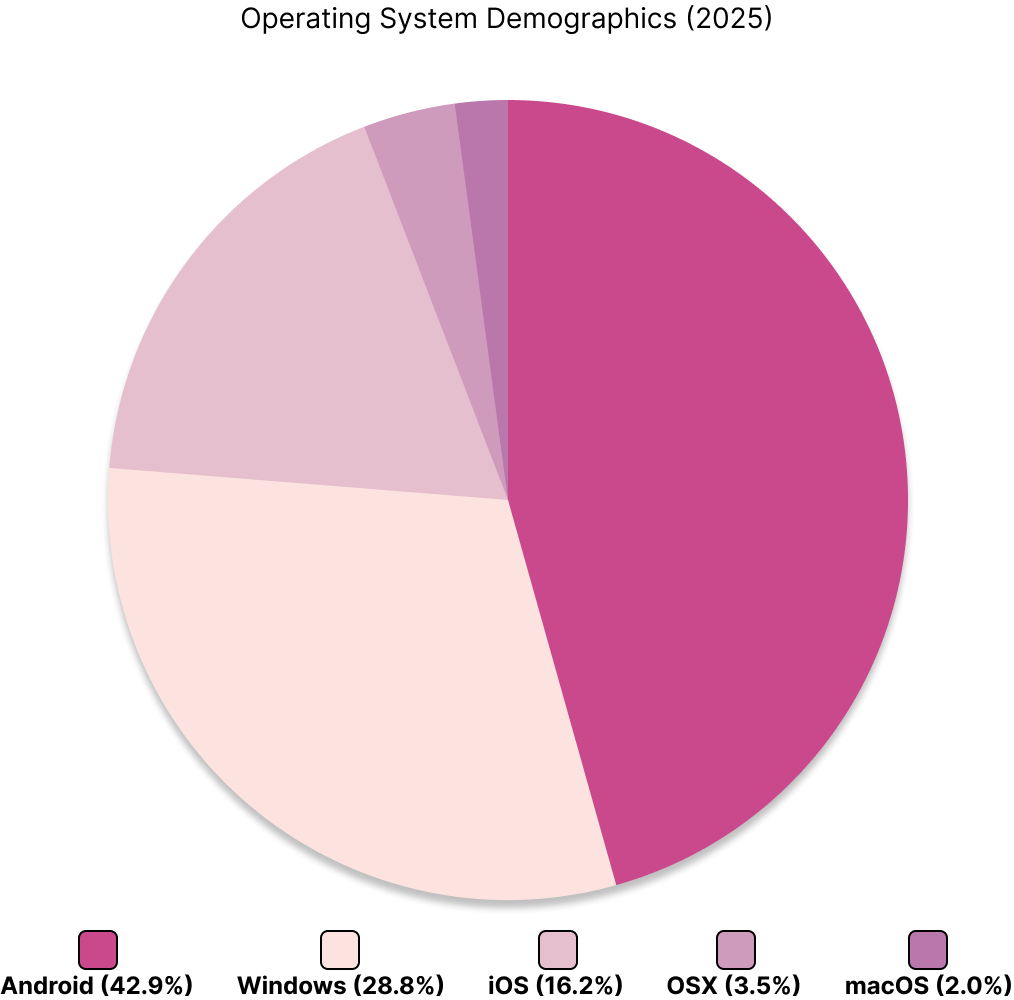
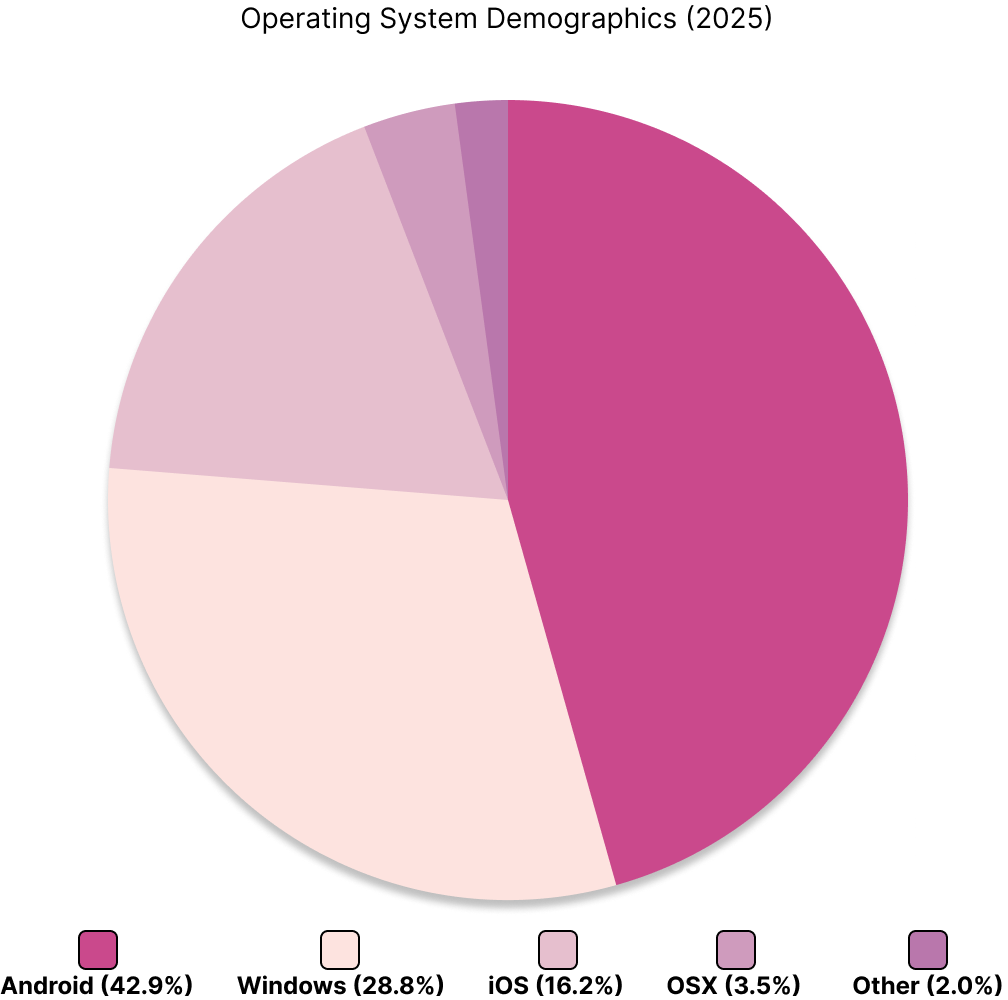
Simplify optimization section, move graphics inline

diff --git a/CreatorTools/webxr-optimization/introduction-to-web-optimization.md b/CreatorTools/webxr-optimization/introduction-to-web-optimization.md
@@ -11,11 +11,21 @@ VIVERSE experiences run in web browsers. This allows 3D experiences to securely 
 
 ### Reach millions of users instantly
 
-An estimated **3 billion people** have access to a 3D-capable web browser.
+An estimated **3 billion people** have access to a 3D-capable web browser and high-speed internet connection:
 
-### Launch on any device with a web browser
+<figure><img src=".gitbook/assets/3D Capable Demographics.png" alt="" width="375"><figcaption><p>Population of 3D Capable Users</p></figcaption></figure>
 
-3D web apps reach phones, desktop computers, laptop computers, and Mixed Reality headsets via the same URL. Chrome alone accounts for ~68% of global browsing.
+### Launch on any device with a 3D-compatible web browser
+
+3D web apps reach phones, desktop computers, laptop computers, and mixed reality (XR) headsets via the same URL. The vast majority of internet browsing happens on 3D-capable browsers (Chrome, Edge, Firefox, and Safari) running on 3D-capable operating systems (Android, iOS, OSX, Windows).
+
+<figure><img src=".gitbook/assets/Browser Demographics.png" alt="" width="375"><figcaption><p>Browser Demographics</p></figcaption></figure>
+
+<figure><img src=".gitbook/assets/OS Demographics.png" alt="" width="375"><figcaption><p>Operating System Demographics</p></figcaption></figure>
+
+An estimated 95% of browsers in use support 3D experiences via the WebGL API:
+
+<figure><img src=".gitbook/assets/WebGL Support.png" alt="" width="375"><figcaption><p>WebGL Support Across Devices</p></figcaption></figure>
 
 ### Secure by default
 
@@ -25,17 +35,9 @@ The [web’s](https://developer.mozilla.org/en-US/docs/Web/Security) application
 
 WebGPU/WebGL 2, WebXR, WebAssembly (WASM), CSS, and JavaScript are standardized by mature standards bodies and implemented across most major web browser engines. There is no store gatekeeping compared to native platforms.
 
-## By the Numbers: 3D Web Availability
-
-<figure><img src=".gitbook/assets/3D Capable Demographics.png" alt="" width="375"><figcaption><p>Population of 3D Capable Users</p></figcaption></figure>
-
-<figure><img src=".gitbook/assets/OS Demographics.png" alt="" width="375"><figcaption><p>Operating System Demographics</p></figcaption></figure>
-
-<figure><img src=".gitbook/assets/Browser Demographics.png" alt="" width="375"><figcaption><p>Browser Demographics</p></figcaption></figure>
-
-<figure><img src=".gitbook/assets/WebGL Support.png" alt="" width="375"><figcaption><p>WebGL Support Across Devices</p></figcaption></figure>
-
 ## Optimizing 3D experiences for the Web vs native platforms
+
+The core principles of game development are the same across web and native, but there are key optimizations to make on the web platform to ensure that users have a great first impression and keep coming back:
 
 ### Load in fast
 
@@ -45,7 +47,7 @@ WebGPU/WebGL 2, WebXR, WebAssembly (WASM), CSS, and JavaScript are standardized 
 - Load in assets as you go - one benefit of the browser is that assets can be continuously fetched over the network. Rather than loading everything in at once, only download it when you need it.
 - Show the user something as soon as you can - users will be visiting your game from a web page, which typically load very quickly. To keep the experience seamless, make sure to render a loading bar while resources are downloading.
 
-### Expect cross-platform use
+### Prepare for cross-platform use
 
 **The same build runs across mobile, desktop, and XR platforms**. Unlike native applications, where a separate build must be created for each platform, only one build is generated for the web. This simplifies deployment, but performance tuning must happen at runtime.
 
@@ -58,19 +60,20 @@ WebGPU/WebGL 2, WebXR, WebAssembly (WASM), CSS, and JavaScript are standardized 
 
 **Developers must tailor their experience towards running in a WebGL context**. The browser adds some CPU overhead compared to native apps to ensure the security of WebGL experiences.
 
-- Understand how draw calls impact performance - the CPU performance of a scene typically scales with the number of draw calls that occur in each frame. A draw call is a command that the engine sends to the GPU telling it to a draw a series of triangles or pixels. This operation happens very quickly on the GPU, but is very slow on the CPU, making it advantageous to batch draw calls together or strip them out entirely.
-- Reuse materials and merge static meshes - By leveraging atlas textures and texture arrays, a single material can be used across multiple meshes. This helps to batch draw calls, which typically scale with the number of meshes and materials in the scene. If a mesh does not move in the scene, it can be combined with other static meshes and materials into a single super-mesh that renders in a single draw call.
-- Leverage hardware instancing and level of detail (LOD) systems - while the browser adds some CPU overhead for security and automatic memory management, GPU performance is nearly identical to OpenGL native experiences. Thus, it is important to leverage hardware techniques like instancing to draw many copies of the same mesh without needing to process all of the copies on the CPU. This is particularly useful when rendering LOD systems, which can leverage instancing to render hundreds of background objects like plants, crowds, and buildings at lower detail at a very low CPU cost.
-- Reduce scene complexity - If CPU performance is still sub-optimal in the browser with properly batched draw calls, a user may need to reduce the complexity of the scene. This can include reducing the number of meshes in the scene, rendering animations at lower framerates, removing transparent meshes, which can incur multiple additional draw calls, and reducing the number of lights in the scene.
-- Reduce visual fidelity - If the app is GPU-bound, i.e. too much time is spent each frame drawing triangles to the canvas, consider lowering the quality of the scene. This can include: lowering the polygon count of meshes, reducing texture sizes, reducing the number of dynamic lights, removing expensive math functions from shaders, and removing post-processing effects like fog. Finally, users can lower the resolution of the scene, which typically scales with GPU performance.
+- Web applications tend to be CPU limited - the browser adds security measures to ensure that WebGL and automatic memory management can't be used to run malicious code. This adds some overhead to 3D web applications compared to native applications, making it more important to optimize CPU performance. Rendering performance is largely the same compared to an OpenGL application.
+- Understand how draw calls impact performance - CPU performance scales with the number of draw calls that occur in each frame. A draw call is a command that the engine sends to the GPU telling it to a draw a series of triangles or pixels. This operation happens quickly on the GPU, but is slow on the CPU, making it advantageous to reduce the number of draw calls.
+- Reuse materials and merge meshes wherever possible.
+- Leverage GPU instancing and level of detail (LOD) systems.
+- Reduce scene complexity - reduce the mesh count, render animations at lower framerates, remove transparency and reflections.
+- Reduce visual fidelity - lowering mesh and texture resolution, reduce the number of dynamic lights, simplify and remove post-processing effects, lower the output resolution.
 
 ### Select the best engine for the experience
 
 **Different web engines are well-suited for different types of experiences**. While some native engines, like Unity, allow building experiences for the web, some developers may prefer to use an engine built specifically for the web.
 
-- Developer experience matters: developers should use an engine that they enjoy developing in. If you're already comfortable with Unity, then it makes sense to continue with that engine. If you're looking to jump into JavaScript development, but still want an editor, PlayCanvas might be the right choice. For programming and rendering specialists, Three.js and Babylon provide the opportunity to build up a 3D framework from scratch, or to grab one off the shelf from the extensive communities.
-- Be careful with file size: Without optimization, fully-featured C++ engines like Unity can have much larger application sizes than JavaScript engines like Babylon.js, Three.js, and PlayCanvas. If you don't need all of the features of Unity, using a javascript-based engine may make bundle size optimization easier. Users on mobile devices typically prefer smaller app sizes, as they may be on a cellular network.
-- Device support: Web browsers are designed to support a wide range of devices, so developers generally do not need to worry about mobile and desktop rendering support. If you plan to support mobile devices, some engines, like Unity and PlayCanvas, support touch controls out of the box, while for engines like Three.js, you may need to use a third-party solution or touch controls yourself. If you plan to support XR, make sure your chosen engine has WebXR support.
+- Developer experience matters - developers should use an engine that suits their strengths. If you're already comfortable with Unity, then continue with that engine. If you're looking to jump into JavaScript development, but still want an editor, PlayCanvas might be the right choice. For programming specialists, Three.js and Babylon.js provide more flexibility.
+- Be careful with file size - Without optimization, fully-featured C++ engines like Unity can have much larger application sizes than JavaScript engines like Babylon.js, Three.js, and PlayCanvas. If you don't need all of the features of Unity, using a javascript-based engine may make bundle size optimization easier. Users on mobile devices typically prefer smaller app sizes, as they may be on a cellular network.
+- Device support - If you plan to support mobile devices, some engines, like Unity and PlayCanvas, support touch controls out of the box, while for engines like Three.js, you may need to use a third-party solution or touch controls yourself. If you plan to support XR, make sure your chosen engine has WebXR support.
 
 ## The Six Characteristics of an Optimized Experience
 
